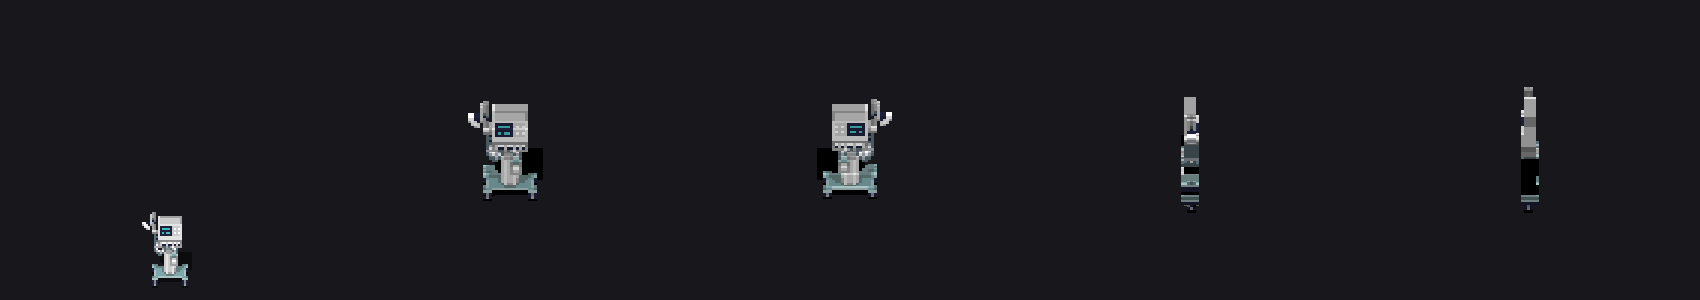
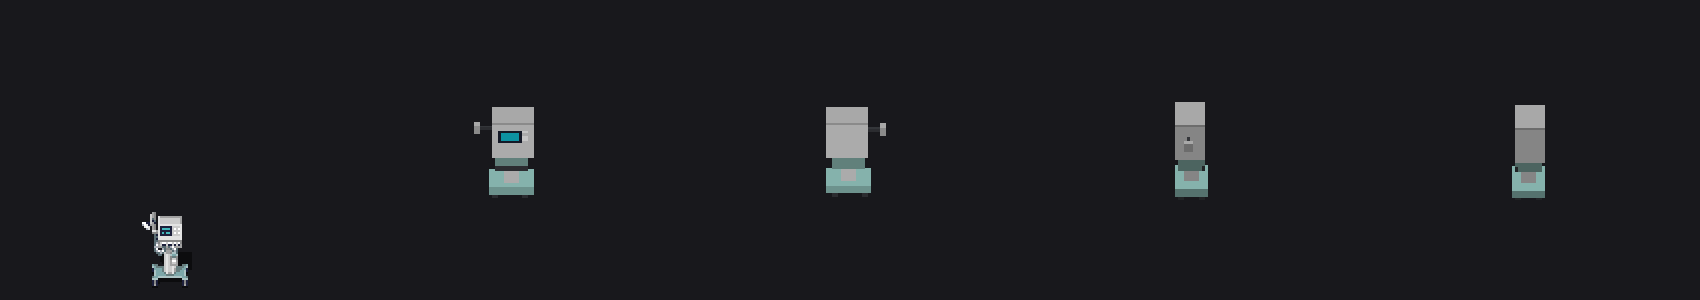
Manual models for the 7 flagged D1 ids (floor lamp, wind vane, TV antenna, cell booster, ventilator, machinery light, ground cable)

diff --git a/crates/voxelizer/src/props.rs b/crates/voxelizer/src/props.rs
@@ -4049,6 +4049,321 @@ fn frame_model(sprite: &RgbaImage, depth: u32) -> Option<PropModel> {
     Some(m)
 }
 
+// ----------------------------------------------------------------
+// Hand-built models (Joey, 2026-11-17: "Edit the models
+// manually"). Each is composed from primitives on the
+// 32x32 plan, designed from the sprite and the real
+// object; colors are the sprites' measured modal tones
+// (named per builder). These override every procedural
+// route for their ids.
+// ----------------------------------------------------------------
+
+fn rgb(r: u8, g: u8, b: u8) -> Rgba<u8> {
+    Rgba([r, g, b, 255])
+}
+
+fn box_fill(
+    m: &mut PropModel,
+    x0: u32,
+    x1: u32,
+    y0: u32,
+    y1: u32,
+    z0: u32,
+    z1: u32,
+    c: Rgba<u8>,
+) {
+    for x in x0..=x1 {
+        for y in y0..=y1 {
+            for z in z0..=z1 {
+                m.set(x, y, z, Some(c));
+            }
+        }
+    }
+}
+
+/// Vertical cylinder (disc stack) of radius r at (cx, cz).
+fn cyl_y(m: &mut PropModel, cx: i32, cz: i32, r: f32, y0: u32, y1: u32, c: Rgba<u8>) {
+    let ri = r.ceil() as i32;
+    for x in (cx - ri)..=(cx + ri) {
+        for z in (cz - ri)..=(cz + ri) {
+            let (dx, dz) = (x - cx, z - cz);
+            if (dx * dx + dz * dz) as f32 <= r * r {
+                for y in y0..=y1 {
+                    if x >= 0 && z >= 0 && (x as u32) < 32 && (z as u32) < 32 {
+                        m.set(x as u32, y, z as u32, Some(c));
+                    }
+                }
+            }
+        }
+    }
+}
+
+/// Horizontal tube along x at (y, cz), radius r.
+fn tube_x(m: &mut PropModel, x0: u32, x1: u32, cy: i32, cz: i32, r: f32, c: Rgba<u8>) {
+    let ri = r.ceil() as i32;
+    for y in (cy - ri)..=(cy + ri) {
+        for z in (cz - ri)..=(cz + ri) {
+            let (dy, dz) = (y - cy, z - cz);
+            if (dy * dy + dz * dz) as f32 <= r * r {
+                for x in x0..=x1 {
+                    if y >= 0 && z >= 0 {
+                        m.set(x, y as u32, z as u32, Some(c));
+                    }
+                }
+            }
+        }
+    }
+}
+
+/// Horizontal tube along z at (cx, y), radius r.
+fn tube_z(m: &mut PropModel, z0: u32, z1: u32, cx: i32, cy: i32, r: f32, c: Rgba<u8>) {
+    let ri = r.ceil() as i32;
+    for x in (cx - ri)..=(cx + ri) {
+        for y in (cy - ri)..=(cy + ri) {
+            let (dx, dy) = (x - cx, y - cy);
+            if (dx * dx + dy * dy) as f32 <= r * r {
+                for z in z0..=z1 {
+                    if x >= 0 && y >= 0 {
+                        m.set(x as u32, y as u32, z, Some(c));
+                    }
+                }
+            }
+        }
+    }
+}
+
+fn manual_model(id: &str, sprite: &RgbaImage) -> Option<PropModel> {
+    match id {
+        "f_floor_lamp" => Some(manual_floor_lamp()),
+        "f_wind_vane" => Some(manual_wind_vane(sprite)),
+        "f_TV_antenna" => Some(manual_tv_antenna()),
+        "f_cellphone_booster" => Some(manual_cellphone_booster()),
+        "f_ventilator" => Some(manual_ventilator()),
+        "f_machinery_light" => Some(manual_machinery_light()),
+        "f_ground_cable" => Some(manual_ground_cable()),
+        _ => None,
+    }
+}
+
+/// Floor lamp: round base, slim pole, a cylindrical
+/// paper shade with a dark grille cap and the warm bulb
+/// showing at its top (sprite tones: shade (183,183,183),
+/// base (124,129,109), pole brown).
+fn manual_floor_lamp() -> PropModel {
+    let mut m = PropModel::new([32, 44, 32]);
+    let shade = rgb(196, 196, 190);
+    let base = rgb(124, 129, 109);
+    let pole = rgb(96, 74, 52);
+    cyl_y(&mut m, 16, 16, 4.2, 0, 1, base);
+    cyl_y(&mut m, 16, 16, 1.1, 2, 29, pole);
+    // Shade: a shell cylinder (hollow core) y 30..41.
+    for y in 30..=41 {
+        for x in 11..=21 {
+            for z in 11..=21 {
+                let d = ((x as i32 - 16).pow(2) + (z as i32 - 16).pow(2)) as f32;
+                if d <= 20.0 && d >= 9.0 {
+                    m.set(x, y, z, Some(shade));
+                }
+            }
+        }
+    }
+    // Bulb glow disc inside the top, grille cap ring.
+    cyl_y(&mut m, 16, 16, 3.0, 40, 40, rgb(232, 196, 92));
+    for x in 11..=21 {
+        for z in 11..=21 {
+            let d = ((x as i32 - 16).pow(2) + (z as i32 - 16).pow(2)) as f32;
+            if d <= 20.0 && d >= 12.0 {
+                m.set(x, 42, z, Some(rgb(58, 56, 52)));
+            }
+        }
+    }
+    m
+}
+
+/// Wind vane: post, a directional cross (bars on both
+/// axes with end plates), a ball, and an arrow whose
+/// tail carries the sprite's rooster figure as a flat
+/// plate. Greys from the sprite ((148,148,148) modal).
+fn manual_wind_vane(sprite: &RgbaImage) -> PropModel {
+    let mut m = PropModel::new([32, 20, 32]);
+    let metal = rgb(150, 150, 150);
+    let dark = rgb(100, 100, 100);
+    cyl_y(&mut m, 16, 16, 1.1, 0, 10, dark);
+    // Directional cross at y 8: bars along x and z with
+    // end plates.
+    box_fill(&mut m, 10, 22, 8, 8, 15, 17, metal);
+    box_fill(&mut m, 15, 17, 8, 8, 10, 22, metal);
+    box_fill(&mut m, 9, 10, 7, 9, 15, 17, metal);
+    box_fill(&mut m, 22, 23, 7, 9, 15, 17, metal);
+    box_fill(&mut m, 15, 17, 7, 9, 9, 10, metal);
+    box_fill(&mut m, 15, 17, 7, 9, 22, 23, metal);
+    // Ball at y 11..12.
+    box_fill(&mut m, 15, 17, 11, 12, 15, 17, metal);
+    // Arrow at y 14 along x: shaft, head at +x, tail fin
+    // at -x.
+    box_fill(&mut m, 8, 24, 14, 14, 15, 17, metal);
+    box_fill(&mut m, 25, 27, 13, 15, 15, 17, metal);
+    box_fill(&mut m, 7, 9, 12, 16, 15, 17, dark);
+    // Rooster plate: the sprite's top figure (rows
+    // 4..12, cols 11..17 of the 32x32 sprite), stamped
+    // 2 thick at the tail, standing on the arrow.
+    for r in 4..12u32 {
+        for x in 11..17u32 {
+            let px = *sprite.get_pixel(x, r);
+            if opaque(px) {
+                let y = 15 + (11 - r);
+                m.set(x + 1, y, 15, Some(px));
+                m.set(x + 1, y, 16, Some(px));
+            }
+        }
+    }
+    m
+}
+
+/// TV antenna (Yagi-Uda): a mast, a boom along z, and
+/// seven element rods along x tapering toward the
+/// front. Grey (102,102,102) modal.
+fn manual_tv_antenna() -> PropModel {
+    let mut m = PropModel::new([32, 20, 32]);
+    let metal = rgb(120, 120, 120);
+    let dark = rgb(70, 70, 70);
+    cyl_y(&mut m, 16, 16, 1.1, 0, 11, dark);
+    box_fill(&mut m, 14, 18, 11, 12, 14, 18, dark);
+    tube_z(&mut m, 5, 27, 16, 13, 0.9, metal);
+    // Elements: z from back (long) to front (short).
+    let elems = [
+        (6u32, 21u32),
+        (9, 20),
+        (12, 18),
+        (15, 17),
+        (18, 15),
+        (21, 14),
+        (24, 12),
+    ];
+    for (z, half) in elems {
+        let x0 = 16 - half / 2;
+        tube_x(&mut m, x0, x0 + half, 13, z as i32, 0.7, metal);
+    }
+    m
+}
+
+/// Cellphone booster: two vertical panels (a tall main
+/// panel forward-right, a smaller one back-left, as the
+/// sprite composes them) joined by two bracket arms.
+/// Whites/greys from the sprite ((255,255,255),
+/// (155,155,155)).
+fn manual_cellphone_booster() -> PropModel {
+    let mut m = PropModel::new([32, 28, 32]);
+    let white = rgb(228, 228, 226);
+    let grey = rgb(150, 150, 150);
+    let dark = rgb(80, 80, 80);
+    // Main panel: x 18..27, y 4..25, z 19..20.
+    box_fill(&mut m, 18, 27, 4, 25, 19, 20, white);
+    box_fill(&mut m, 18, 27, 4, 25, 18, 18, grey);
+    // Second panel: x 5..11, y 7..22, z 10..11.
+    box_fill(&mut m, 5, 11, 7, 22, 10, 11, white);
+    box_fill(&mut m, 5, 11, 7, 22, 12, 12, grey);
+    // Bracket arms joining them at y 10 and y 19.
+    box_fill(&mut m, 11, 18, 10, 11, 13, 15, dark);
+    box_fill(&mut m, 11, 18, 19, 20, 13, 15, dark);
+    box_fill(&mut m, 14, 16, 11, 19, 13, 15, dark);
+    m
+}
+
+/// Ventilator (medical): caster base, column, bellows
+/// box, and the main cabinet with its cyan screen on
+/// the front face and a side arm. Tones: cabinet
+/// (203..227 greys), teal base, screen cyan.
+fn manual_ventilator() -> PropModel {
+    let mut m = PropModel::new([32, 32, 32]);
+    let cab = rgb(208, 208, 208);
+    let cab_top = rgb(168, 168, 168);
+    let teal = rgb(133, 178, 172);
+    let dark = rgb(52, 54, 58);
+    // Casters.
+    for (x, z) in [(10u32, 12u32), (20, 12), (10, 19), (20, 19)] {
+        box_fill(&mut m, x, x + 1, 0, 1, z, z + 1, dark);
+    }
+    // Base slab + column + bellows.
+    box_fill(&mut m, 9, 23, 2, 4, 11, 21, teal);
+    box_fill(&mut m, 14, 18, 5, 10, 14, 18, cab);
+    box_fill(&mut m, 11, 21, 11, 15, 12, 20, rgb(118, 156, 150));
+    box_fill(&mut m, 11, 21, 11, 12, 20, 20, dark);
+    // Main cabinet y 16..29, top cap.
+    box_fill(&mut m, 10, 23, 16, 28, 11, 20, cab);
+    box_fill(&mut m, 10, 23, 29, 29, 11, 20, cab_top);
+    // Screen on the front face (z = 20): cyan panel with
+    // a dark surround, plus two button dots.
+    box_fill(&mut m, 12, 19, 22, 26, 20, 20, rgb(24, 30, 48));
+    box_fill(&mut m, 13, 18, 23, 25, 20, 20, rgb(16, 178, 198));
+    box_fill(&mut m, 20, 21, 23, 24, 20, 20, rgb(240, 240, 240));
+    box_fill(&mut m, 20, 21, 26, 26, 20, 20, rgb(240, 240, 240));
+    // Side arm on the left with a knob.
+    tube_x(&mut m, 5, 10, 24, 15, 0.8, dark);
+    box_fill(&mut m, 4, 5, 23, 25, 14, 16, cab_top);
+    m
+}
+
+/// Machinery light: an olive industrial machine -- base
+/// cabinet on feet, a table slab, a motor block, two
+/// posts, and the lamp head with two pale lamps. Greens
+/// from the sprite ((157,169,73), (123,132,61),
+/// (79,86,38)).
+fn manual_machinery_light() -> PropModel {
+    let mut m = PropModel::new([32, 32, 32]);
+    let dark = rgb(86, 94, 42);
+    let mid = rgb(126, 135, 62);
+    let light = rgb(158, 170, 74);
+    let steel = rgb(168, 168, 160);
+    for (x, z) in [(9u32, 12u32), (21, 12), (9, 19), (21, 19)] {
+        box_fill(&mut m, x, x + 1, 0, 0, z, z + 1, rgb(40, 40, 38));
+    }
+    box_fill(&mut m, 8, 24, 1, 7, 11, 21, dark);
+    box_fill(&mut m, 7, 25, 8, 10, 10, 22, mid);
+    // Motor block on the right of the table.
+    box_fill(&mut m, 17, 24, 11, 19, 13, 20, light);
+    box_fill(&mut m, 17, 24, 20, 20, 13, 20, mid);
+    // Two posts rising at the left-center.
+    box_fill(&mut m, 10, 11, 11, 24, 14, 15, steel);
+    box_fill(&mut m, 14, 15, 11, 24, 14, 15, steel);
+    // Lamp head across the posts' tops.
+    box_fill(&mut m, 8, 21, 25, 30, 12, 19, light);
+    box_fill(&mut m, 8, 21, 30, 30, 12, 19, mid);
+    // Two pale lamps on the head's front face.
+    box_fill(&mut m, 10, 12, 27, 28, 19, 19, rgb(236, 232, 184));
+    box_fill(&mut m, 16, 18, 27, 28, 19, 19, rgb(236, 232, 184));
+    m
+}
+
+/// Ground cable (unconnected): two loose coils lying
+/// flat -- a red ring and a green ring -- with two
+/// white/yellow plugs at the red coil's edge. Reds
+/// (122,15,15), green (26,85,0) from the sprite.
+fn manual_ground_cable() -> PropModel {
+    let mut m = PropModel::new([32, 4, 32]);
+    let ring = |m: &mut PropModel, cx: i32, cz: i32, rad: f32, c: Rgba<u8>| {
+        for x in 0..32 {
+            for z in 0..32 {
+                let d = (((x - cx).pow(2) + (z - cz).pow(2)) as f32).sqrt();
+                if (d - rad).abs() <= 1.2 {
+                    m.set(x as u32, 0, z as u32, Some(c));
+                    m.set(x as u32, 1, z as u32, Some(c));
+                }
+            }
+        }
+    };
+    ring(&mut m, 11, 12, 6.0, rgb(140, 26, 22));
+    ring(&mut m, 23, 14, 4.6, rgb(32, 92, 8));
+    // A red run joining the coils along the ground.
+    box_fill(&mut m, 16, 19, 0, 1, 12, 13, rgb(140, 26, 22));
+    // Two plugs at the red coil's lower edge.
+    box_fill(&mut m, 5, 7, 0, 1, 19, 20, rgb(216, 216, 208));
+    box_fill(&mut m, 6, 6, 0, 1, 21, 21, rgb(232, 192, 64));
+    box_fill(&mut m, 12, 14, 0, 1, 20, 21, rgb(216, 216, 208));
+    box_fill(&mut m, 13, 13, 0, 1, 22, 22, rgb(232, 192, 64));
+    m
+}
+
 /// The opaque band as a segmentation, with none of
 /// [`seamless_segment`]'s firing criteria — for rest-of-
 /// props pins whose sprites are too thin, sparse, or
@@ -4072,6 +4387,12 @@ pub fn raw_segment(sprite: &RgbaImage) -> Option<Segmentation> {
 }
 
 pub fn coverage_model(id: &str, sprite: &RgbaImage) -> Option<PropModel> {
+    // Hand-built models first (Joey's instruction,
+    // 2026-11-17: the procedural builds for these still
+    // looked wrong; edit the models manually).
+    if let Some(m) = manual_model(id, sprite) {
+        return Some(m);
+    }
     if let Some((_, t)) = PLAN_SLAB_PINS.iter().find(|(k, _)| *k == id) {
         return plan_slab(sprite, *t);
     }
